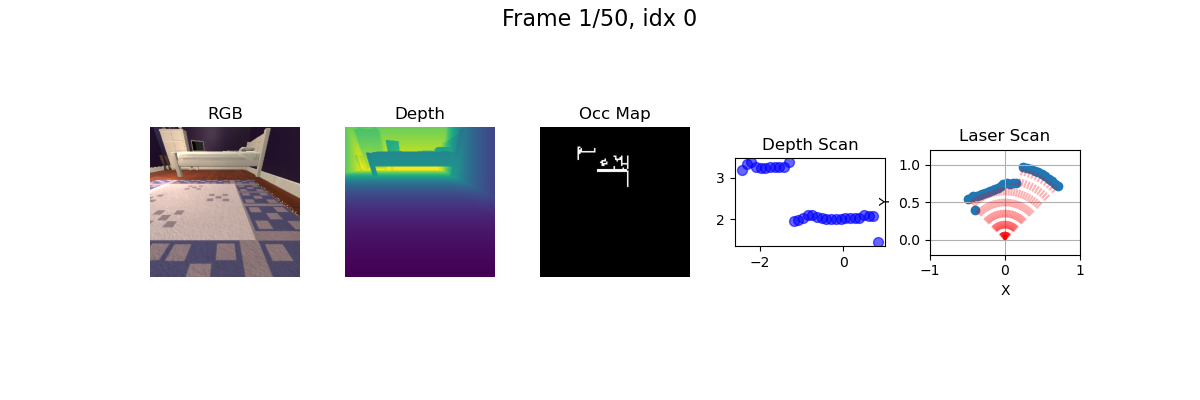
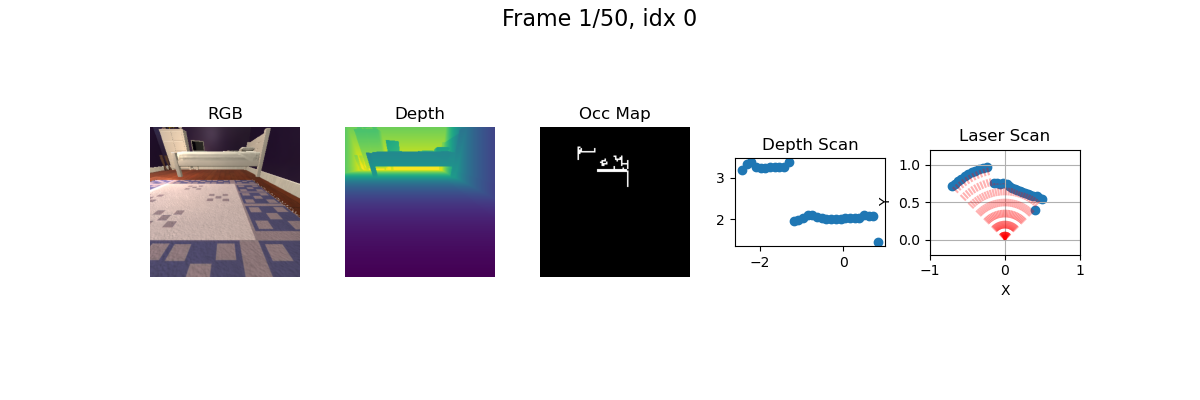
dev: add depth_layer_scan_api

diff --git a/depth_transform.py b/depth_transform.py
@@ -342,7 +342,7 @@ def depth_layer_scan_api(depth,
         angles: 激光扫描角度 (n_intervals,) ndarray
         dists: 激光扫描距离 (n_intervals,) ndarray
     """
-    angles = np.linspace(-fov_deg[0]/2, fov_deg[0]/2, n_intervals)
+    angles = np.linspace(fov_deg[0]/2, -fov_deg[0]/2, n_intervals)
     cfg = Config(
         corrdinate_system='opengl',
         sensor_cfg={"fov_deg": fov_deg, "dist_scale": dist_scale},
